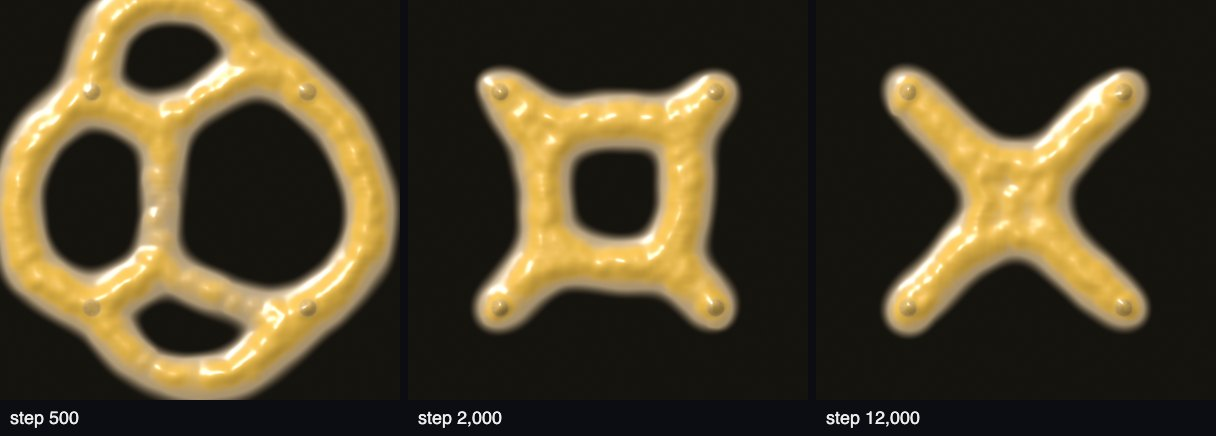
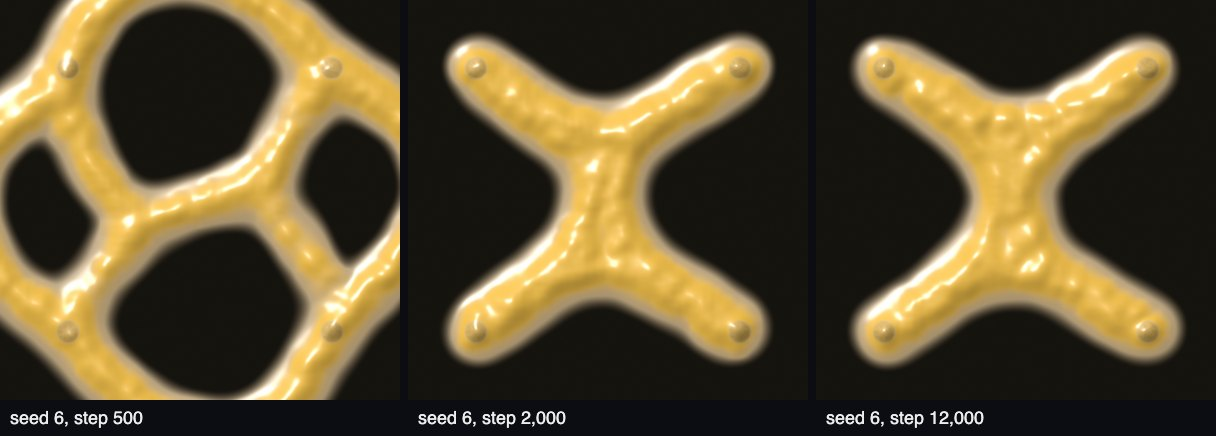
The Steiner tree picture from seed 6, with its bridge

diff --git a/tests/pictures/readme.spec.ts b/tests/pictures/readme.spec.ts
@@ -132,11 +132,13 @@ const PICTURES: Picture[] = [
     file: 'steiner',
     width: 400,
     crop: SQUARE,
+    // Seed 6: of seeds 1 to 20 at step 12,000, its tree shows the bridge between its two junctions most clearly.
     panels: [500, 2000, 12000].map((step) => ({
       scene: 'steiner',
+      patch: () => ({ seed: 6 }),
       step,
-      view: { at: [0.5, 0.5], zoom: 1.8 },
-      text: `step ${step.toLocaleString('en-US')}`,
+      view: { at: [0.5, 0.5], zoom: 2.2 },
+      text: `seed 6, step ${step.toLocaleString('en-US')}`,
     })),
   },
   {

diff --git a/README.md b/README.md
@@ -119,8 +119,8 @@ says, a vein is darker, and the slime lies below as a grey film.
 
 ## More scenes
 
-The Steiner tree of Jones (2010), Fig. 19, in the Gel style: a loose network around four foods
-contracts to a short tree between them. Steps 500, 2,000 and 12,000:
+The Steiner tree of Jones (2010), Fig. 19, in the Gel style, seed 6: a loose network around four
+foods contracts to a short tree, two junctions joined by a bridge. Steps 500, 2,000 and 12,000:
 
 ![The Steiner tree at three steps](docs/images/steiner.jpg)
 
